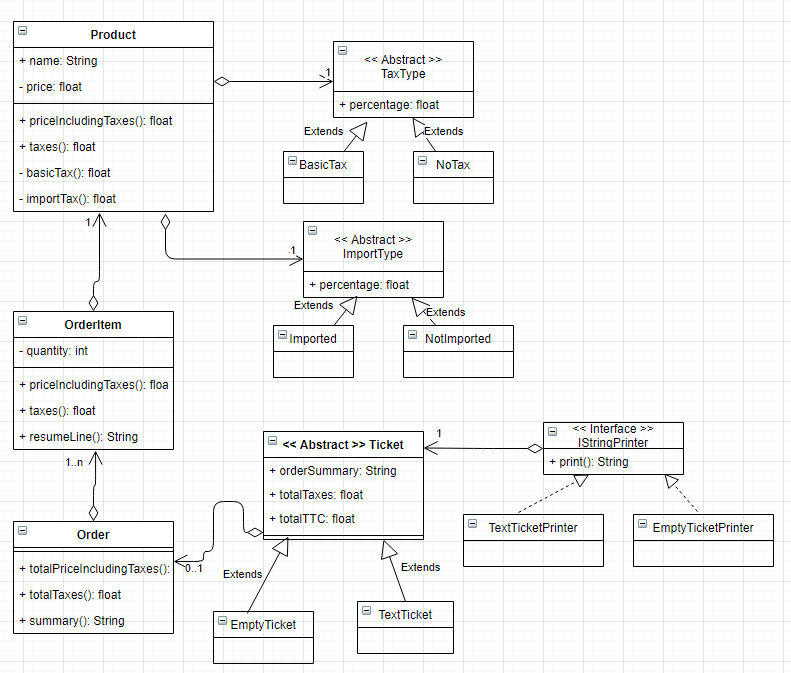
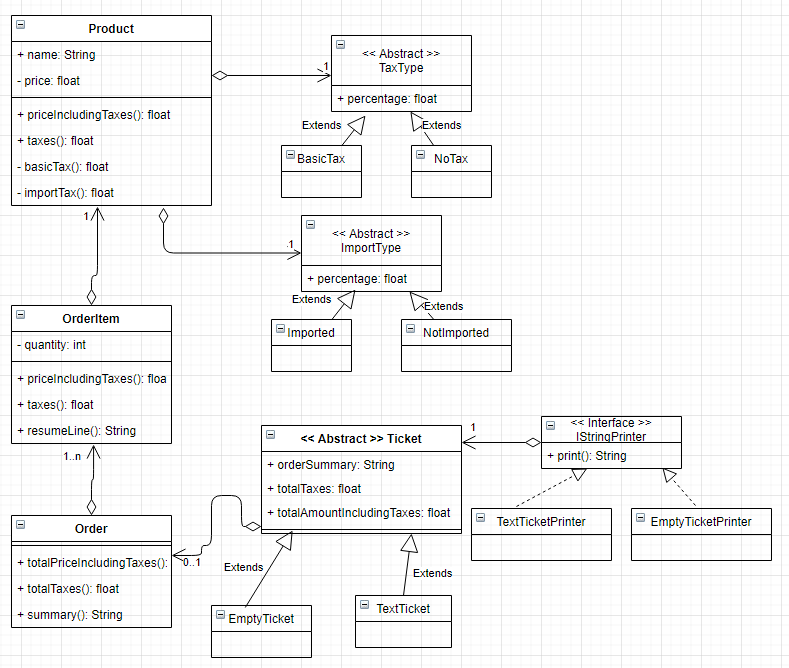
sales: Update Ticket property

diff --git a/src/com/sales_taxes_prolem/ticket_printing/TextTicketPrinter.kt b/src/com/sales_taxes_prolem/ticket_printing/TextTicketPrinter.kt
@@ -7,7 +7,7 @@ class TextTicketPrinter(override val ticket: TextTicket) : IStringPrinter {
         val output = StringBuilder()
         output.appendLine(ticket.orderSummary)
         output.appendLine("Sales Taxes: ${ticket.totalTaxes.withTwoDecimalPoint()}")
-        output.appendLine("Total: ${ticket.totalTTC.withTwoDecimalPoint()}")
+        output.appendLine("Total: ${ticket.totalAmountIncludingTaxes.withTwoDecimalPoint()}")
         return output.trimEnd().toString()
     }
 }

diff --git a/src/com/sales_taxes_prolem/ticket_printing/EmptyTicketPrinter.kt b/src/com/sales_taxes_prolem/ticket_printing/EmptyTicketPrinter.kt
@@ -4,6 +4,6 @@ import com.sales_taxes_prolem.utils.Format.withTwoDecimalPoint
 
 class EmptyTicketPrinter(override val ticket: EmptyTicket) : IStringPrinter {
     override fun print(): String = """Sales Taxes: ${ticket.totalTaxes.withTwoDecimalPoint()}
-                                |Total: ${ticket.totalTTC.withTwoDecimalPoint()}
+                                |Total: ${ticket.totalAmountIncludingTaxes.withTwoDecimalPoint()}
                             """.trimMargin()
 }

diff --git a/src/com/sales_taxes_prolem/ticket_printing/Ticket.kt b/src/com/sales_taxes_prolem/ticket_printing/Ticket.kt
@@ -1,3 +1,3 @@
 package com.sales_taxes_prolem.ticket_printing
 
-abstract class Ticket(val orderSummary: String, val totalTaxes: Float, val totalTTC: Float)
+abstract class Ticket(val orderSummary: String, val totalTaxes: Float, val totalAmountIncludingTaxes: Float)
